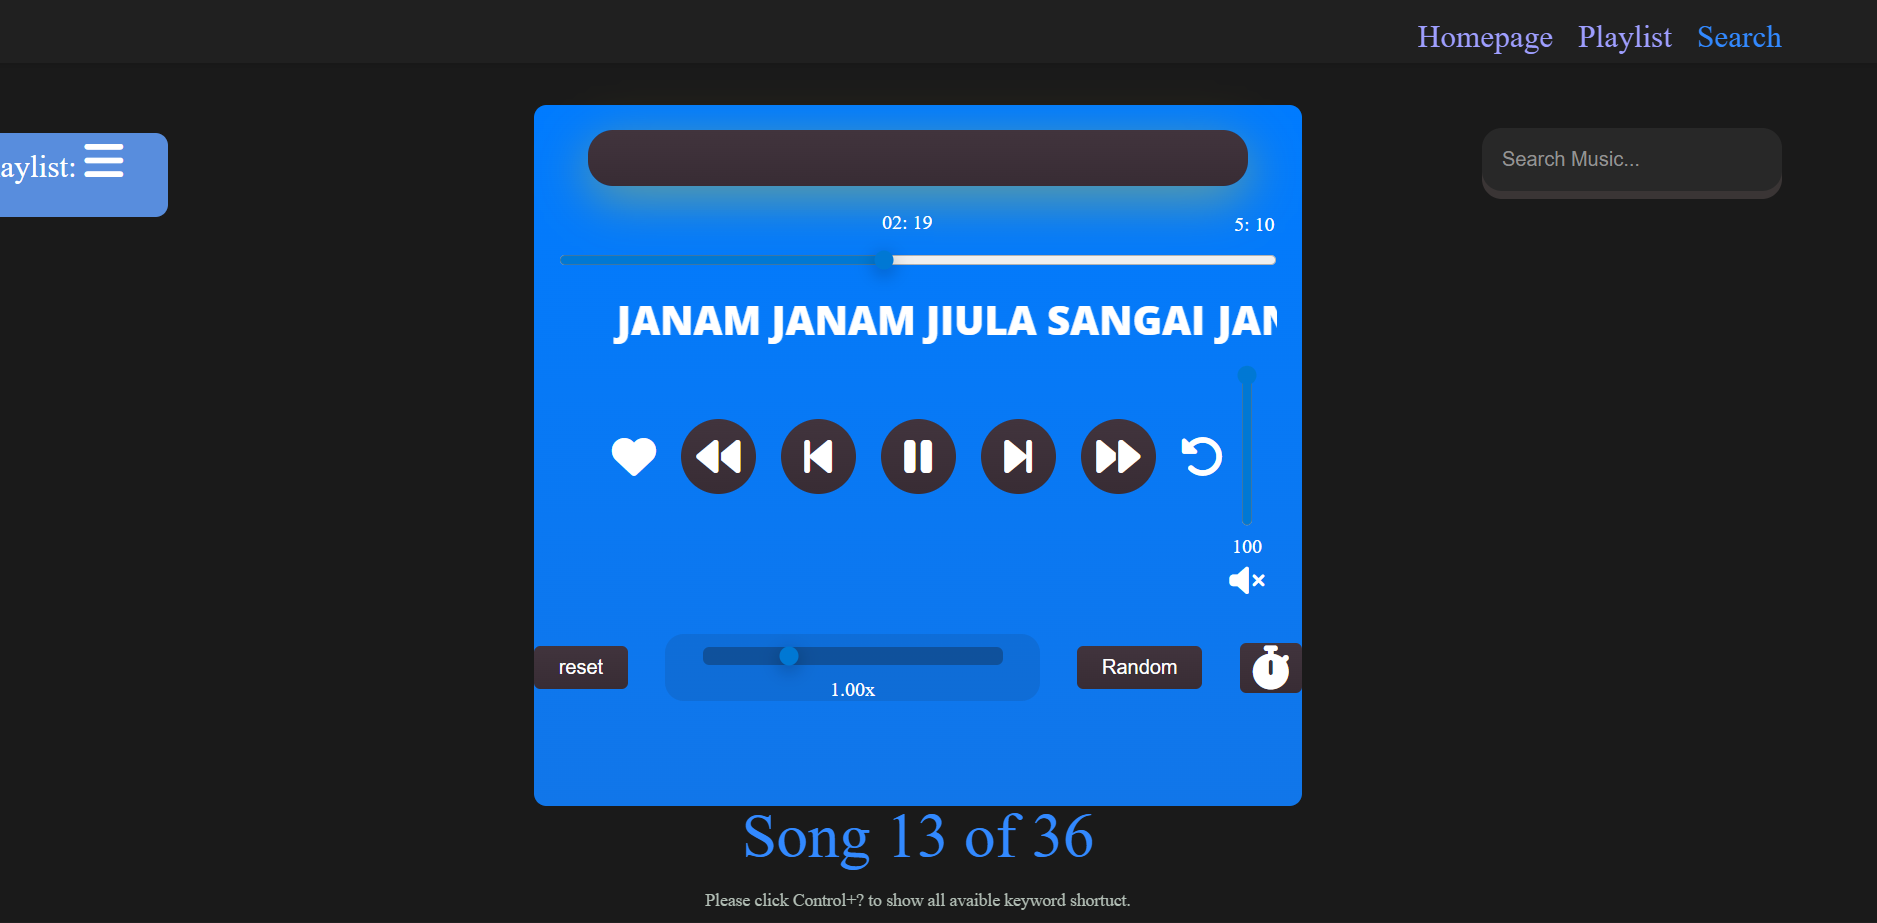
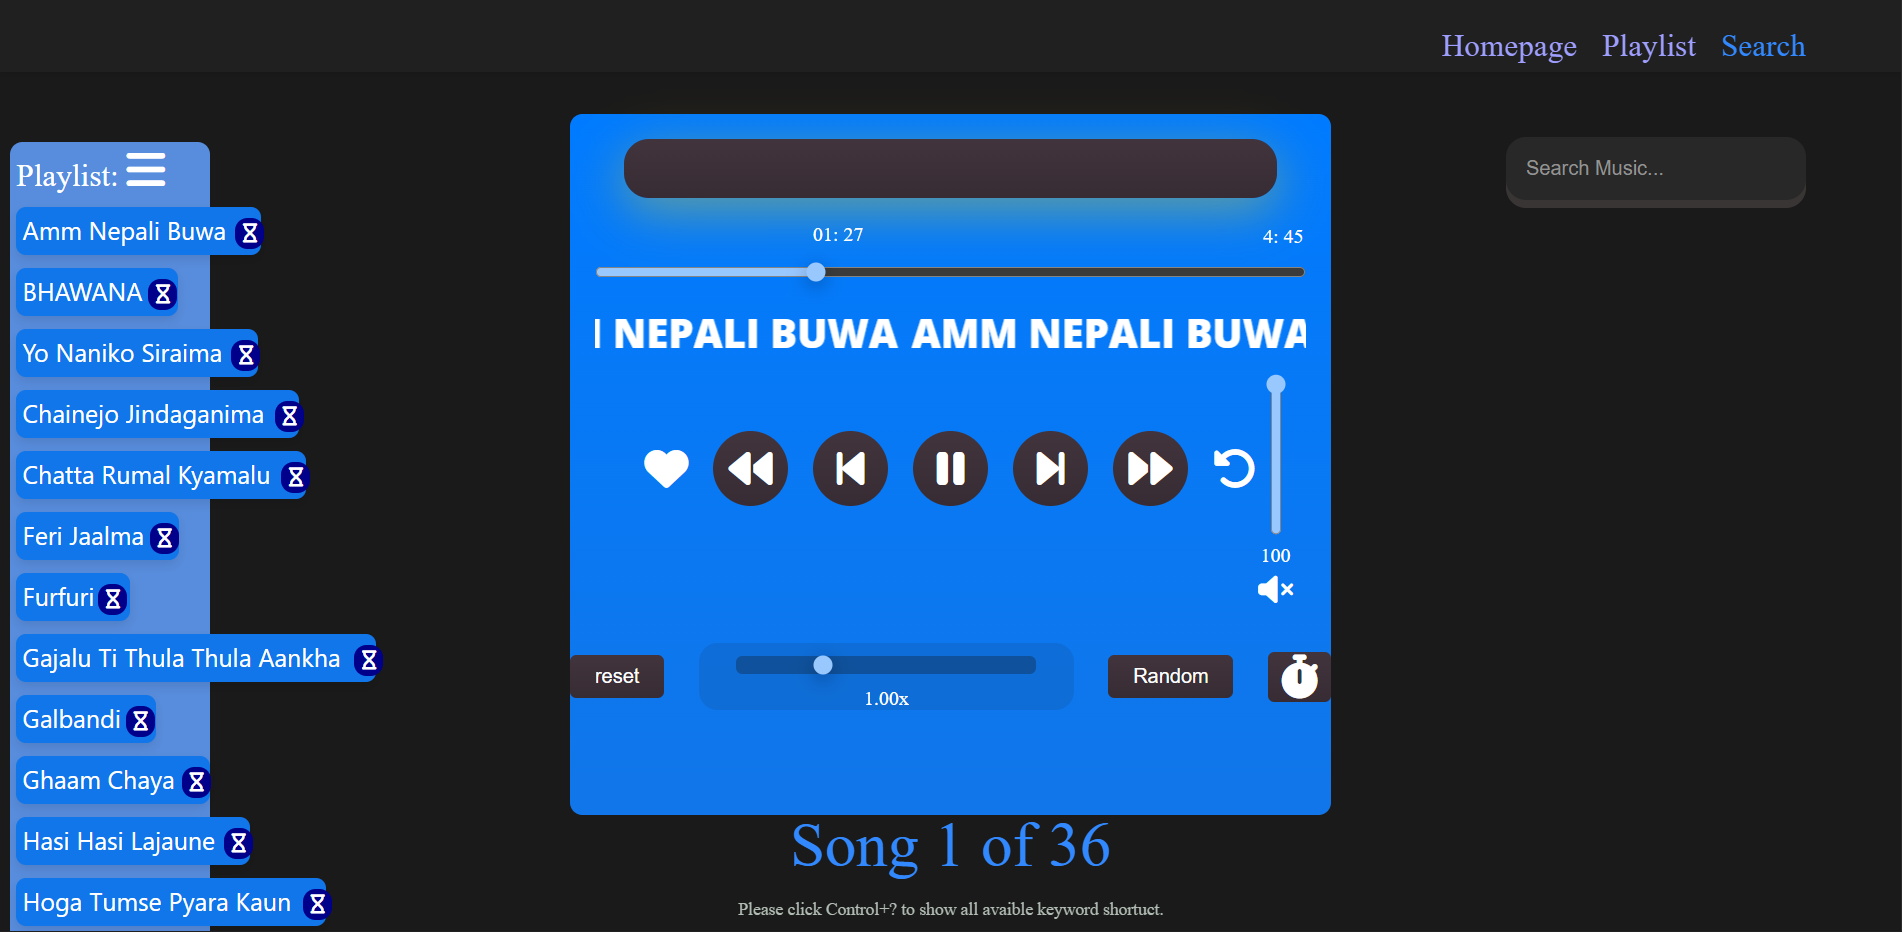
Update my Homepage of the legacy project,  and also Update my Input value, and also a Contact url where to submit

diff --git a/src/components/ui/command.tsx b/src/components/ui/command.tsx
@@ -1,14 +1,14 @@
 "use client";
 
 import {forwardRef} from 'react'
-import type {ReactNode,   ElementRef, ComponentPropsWithoutRef} from 'react'
+import type {ReactNode, ComponentPropsWithoutRef, ComponentRef} from 'react'
 import * as DialogPrimitive from "@radix-ui/react-dialog";
 import { Command as CommandPrimitive } from "cmdk";
 import { Search } from "lucide-react";
 import { cn } from "@/lib/utils";
 
 const Command = forwardRef<
-  ElementRef<typeof CommandPrimitive>,
+  ComponentRef<typeof CommandPrimitive>,
   ComponentPropsWithoutRef<typeof CommandPrimitive>
 >(({ className, ...props }, ref) => (
   <CommandPrimitive
@@ -39,15 +39,15 @@ function CommandDialog({ children, ...props }: CommandDialogProps) {
 }
 
 const CommandInput = forwardRef<
-  ElementRef<typeof CommandPrimitive.Input>,
-  ComponentPropsWithoutRef<typeof CommandPrimitive.Input>
+ComponentRef<typeof CommandPrimitive.Input>,
+ComponentPropsWithoutRef<typeof CommandPrimitive.Input>
 >(({ className, ...props }, ref) => (
   <div className="flex items-center gap-3 border-b border-border px-4 focus-within:bg-raised/40">
     <Search className="h-4 w-4 shrink-0 text-accent-soft" />
     <CommandPrimitive.Input
       ref={ref}
       className={cn(
-        "flex h-14 w-full bg-transparent text-sm text-ink outline-none placeholder:text-ink-faint disabled:cursor-not-allowed disabled:opacity-50",
+        "flex h-14 w-full bg-transparent text-sm text-ink outline-none ring-0 focus:ring-0 focus:outline-none placeholder:text-ink-faint",
         className,
       )}
       {...props}
@@ -57,8 +57,8 @@ const CommandInput = forwardRef<
 CommandInput.displayName = CommandPrimitive.Input.displayName;
 
 const CommandList = forwardRef<
-  ElementRef<typeof CommandPrimitive.List>,
-  ComponentPropsWithoutRef<typeof CommandPrimitive.List>
+ComponentRef<typeof CommandPrimitive.List>,
+ComponentPropsWithoutRef<typeof CommandPrimitive.List>
 >(({ className, ...props }, ref) => (
   <CommandPrimitive.List
     ref={ref}
@@ -69,16 +69,16 @@ const CommandList = forwardRef<
 CommandList.displayName = CommandPrimitive.List.displayName;
 
 const CommandEmpty = forwardRef<
-  ElementRef<typeof CommandPrimitive.Empty>,
-  ComponentPropsWithoutRef<typeof CommandPrimitive.Empty>
+ComponentRef<typeof CommandPrimitive.Empty>,
+ComponentPropsWithoutRef<typeof CommandPrimitive.Empty>
 >((props, ref) => (
   <CommandPrimitive.Empty ref={ref} className="py-8 text-center text-sm text-ink-faint" {...props} />
 ));
 CommandEmpty.displayName = CommandPrimitive.Empty.displayName;
 
 const CommandGroup = forwardRef<
-  ElementRef<typeof CommandPrimitive.Group>,
-  ComponentPropsWithoutRef<typeof CommandPrimitive.Group>
+ComponentRef<typeof CommandPrimitive.Group>,
+ComponentPropsWithoutRef<typeof CommandPrimitive.Group>
 >(({ className, ...props }, ref) => (
   <CommandPrimitive.Group
     ref={ref}
@@ -92,8 +92,8 @@ const CommandGroup = forwardRef<
 CommandGroup.displayName = CommandPrimitive.Group.displayName;
 
 const CommandItem = forwardRef<
-  ElementRef<typeof CommandPrimitive.Item>,
-  ComponentPropsWithoutRef<typeof CommandPrimitive.Item>
+ComponentRef<typeof CommandPrimitive.Item>,
+ComponentPropsWithoutRef<typeof CommandPrimitive.Item>
 >(({ className, ...props }, ref) => (
   <CommandPrimitive.Item
     ref={ref}

diff --git a/src/app/globals.css b/src/app/globals.css
@@ -92,11 +92,10 @@ body {
 }
 
 :focus-visible {
-  outline: 2px solid hsl(var(--accent));
-  outline-offset: 3px;
-  border-radius: 4px;
+  outline: 2px solid rgb(59 130 246 / 0.7);
+  outline-offset: 2px;
+  border-radius: 8px;
 }
-
 @media (prefers-reduced-motion: reduce) {
   *,
   *::before,

diff --git a/src/config/contact.ts b/src/config/contact.ts
@@ -1,3 +1,3 @@
 export const contactConfig = {
-  formspreeEndpoint: "https://formspree.io/f/xojogezp",
+  formspreeEndpoint: process.env.NEXT_PUBLIC_FORM,
 };
